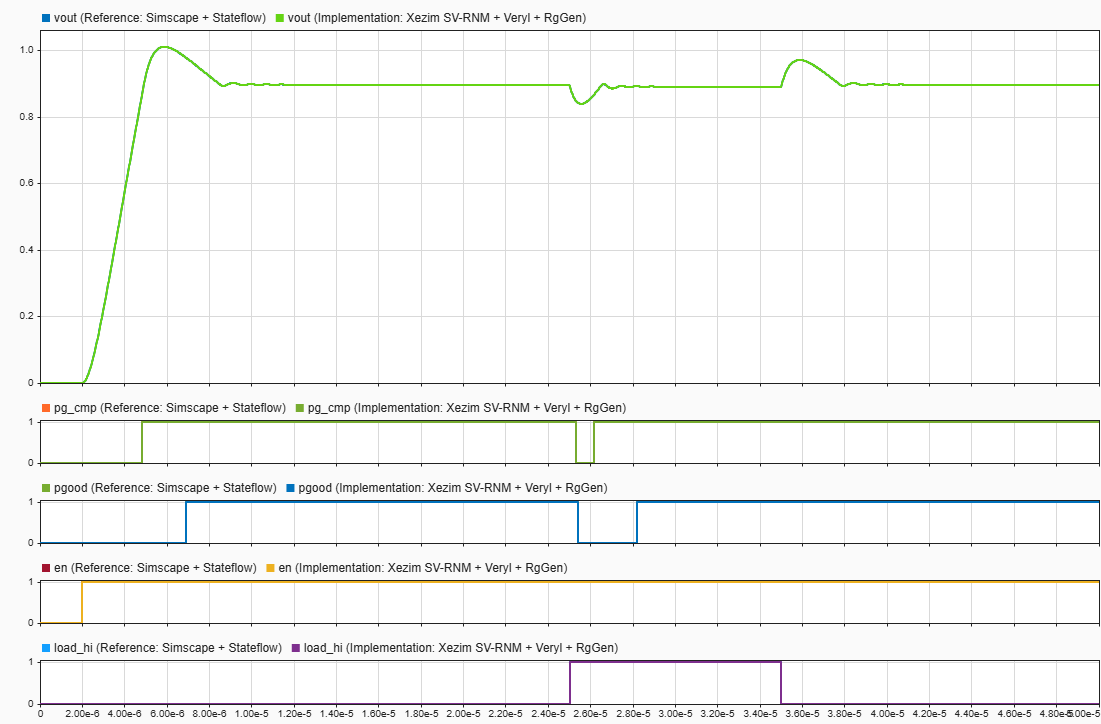
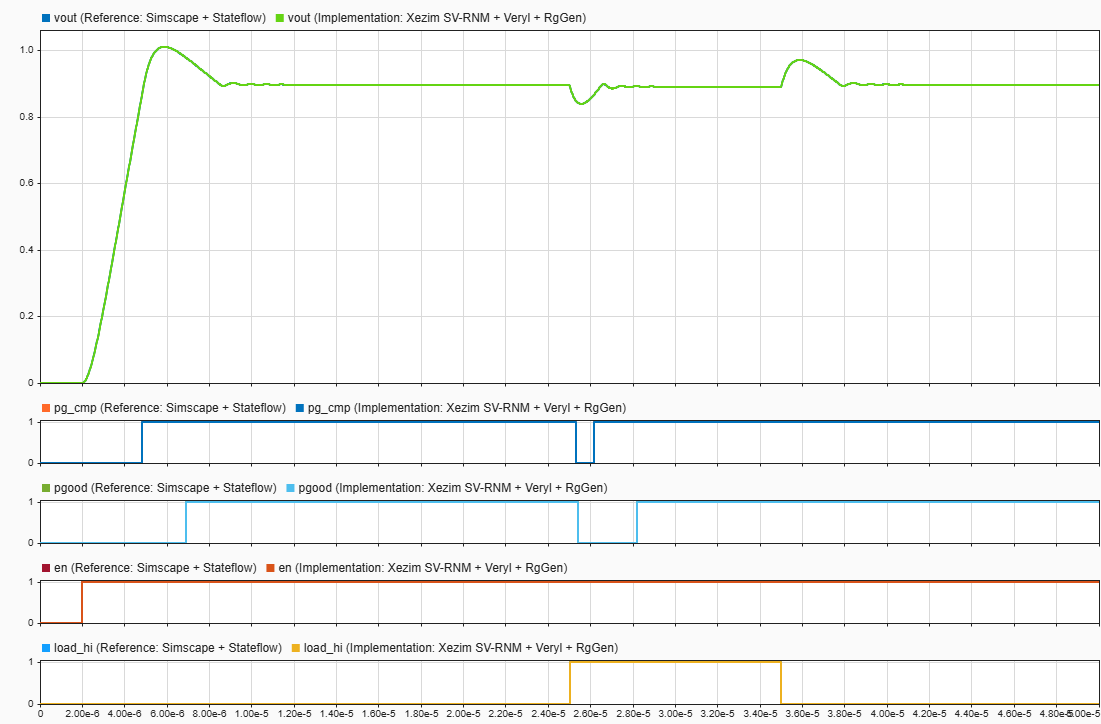
Put the whole MATLAB side in run_demo.m
The reference run, the Xezim run from signals.csv, the SDI comparison with
its limits and the overview figure are now local functions of one file
instead of six. The SDI window shows the same rows as the figure, plotted
in a separate pass before the snapshots (interleaving them left rows of
the figure empty).

diff --git a/matlab/run_demo.m b/matlab/run_demo.m
@@ -1,7 +1,111 @@
 function result = run_demo()
-reference_id = run_reference();
-result.sdi = comparison_sdi(reference_id);
-result.pass = strcmp(result.sdi.verdict, 'PASS');
-fprintf('run_demo: %s\n', result.sdi.verdict);
+% MATLAB side of the demo: simulate the reference model, compare it with the
+% Xezim run in Simulation Data Inspector, and write the overview figure.
+root = fileparts(fileparts(mfilename('fullpath')));
+out = fullfile(root, 'results', 'generated');
+
+ref = run_reference(fullfile(root, 'model', 'ldo_demo.slx'));
+impl = load_xezim_run(fullfile(out, 'xezim', 'signals.csv'));
+verdict = compare_runs(ref, impl, fullfile(out, 'sdi', 'comparison.mldatx'));
+plot_rows(ref, impl, fullfile(out, 'comparison', 'overview.png'));
+
+result = struct('pass', strcmp(verdict, 'PASS'), 'verdict', verdict);
 assert(result.pass, 'talkrtl:DemoFailed', 'SDI comparison failed.');
+end
+
+function run = run_reference(model_file)
+% Simscape LDO + Stateflow supervisor. Root inputs are en, load_hi and rst;
+% SimulationInput leaves the saved model untouched.
+fprintf('=== reference: Simscape LDO + Stateflow supervisor ===\n');
+Simulink.sdi.clear();
+load_system(model_file);
+t = (0:10e-9:50e-6)';
+en = double(t >= 2e-6);
+load_hi = double(t >= 25e-6 & t < 35e-6);
+input = Simulink.SimulationInput('ldo_demo');
+input = input.setExternalInput([t, en, load_hi, zeros(size(t))]);
+sim(input);
+ids = Simulink.sdi.getAllRunIDs();
+run = Simulink.sdi.getRun(ids(end));
+run.Name = 'Reference: Simscape + Stateflow';
+end
+
+function run = load_xezim_run(csv)
+% Every column after time_ns becomes one signal.
+x = readtable(csv);
+names = x.Properties.VariableNames(2:end);
+vals = cellfun(@(n) timeseries(double(x.(n)), x.time_ns * 1e-9, 'Name', n), ...
+    names, 'UniformOutput', false);
+id = Simulink.sdi.createRun('Implementation: Xezim SV-RNM + Veryl + RgGen', ...
+    'namevalue', names, vals);
+run = Simulink.sdi.getRun(id);
+end
+
+function verdict = compare_runs(ref, impl, session)
+% Analog signals within absolute limits, digital signals exact.
+LIMITS = struct('vout', 1e-3, 'vfb', 0.5e-3, 'vctrl', 5e-3, 'ipass', 20e-6);
+for run = [ref impl]
+    for id = run.getAllSignalIDs()'
+        sig = Simulink.sdi.getSignal(id);
+        sig.OverrideGlobalTol = true;
+        sig.RelTol = 0;
+        sig.TimeTol = 0;
+        if isfield(LIMITS, sig.Name)
+            sig.AbsTol = LIMITS.(sig.Name);
+            sig.InterpMethod = 'linear';
+        else
+            sig.AbsTol = 0;
+            sig.InterpMethod = 'zoh';
+        end
+    end
+end
+diff = Simulink.sdi.compareRuns(ref.ID, impl.ID, 'AbsTol', 0, 'RelTol', 0, 'TimeTol', 0);
+ok = 0;
+for k = 1:diff.Count
+    ok = ok + strcmp(char(diff.getResultByIndex(k).Status), 'WithinTolerance');
+end
+verdict = 'FAIL';
+if diff.Count == 10 && ok == diff.Count, verdict = 'PASS'; end
+fprintf('SDI Compare: %d/%d signals within tolerance (digital exact) : %s\n', ok, diff.Count, verdict);
+
+% Keep the computed comparison and both runs for later viewing.
+if ~isfolder(fileparts(session)), mkdir(fileparts(session)); end
+if isfile(session), delete(session); end
+saveResult(diff, session);
+end
+
+function plot_rows(ref, impl, figure_file)
+% The same rows in the SDI window and in the README figure. The figure is one
+% SDI snapshot per row, stacked, so the digital rows can stay thin; only the
+% bottom row gets time labels and the user's SDI setting is restored.
+ROWS = {'vout', 420; 'pg_cmp', 110; 'pgood', 110; 'en', 110; 'load_hi', 124};
+n = size(ROWS, 1);
+Simulink.sdi.clearAllSubPlots();
+Simulink.sdi.setSubPlotLayout(n, 1);
+for k = 1:n
+    for sig = [ref.getSignalsByName(ROWS{k, 1}), impl.getSignalsByName(ROWS{k, 1})]
+        sig.plotOnSubPlot(k, 1, true);
+    end
+end
+% Snapshots in a separate pass: interleaving them with the window plots above
+% left some figure rows empty.
+labels = Simulink.sdi.getTickLabelsDisplay();
+restore = onCleanup(@() Simulink.sdi.setTickLabelsDisplay(labels));
+Simulink.sdi.setTickLabelsDisplay('y-axis');
+img = [];
+for k = 1:n
+    snap = Simulink.sdi.CustomSnapshot;
+    snap.Width = 1100;
+    snap.Height = ROWS{k, 2};
+    for sig = [ref.getSignalsByName(ROWS{k, 1}), impl.getSignalsByName(ROWS{k, 1})]
+        snap.plotOnSubPlot(1, 1, sig, true);
+    end
+    if k == n, Simulink.sdi.setTickLabelsDisplay(labels); end
+    f = [tempname '.png'];
+    Simulink.sdi.snapshot('from', 'custom', 'to', 'file', 'filename', f, 'settings', snap);
+    img = [img; imread(f)]; %#ok<AGROW>
+    delete(f);
+end
+if ~isfolder(fileparts(figure_file)), mkdir(fileparts(figure_file)); end
+imwrite(img, figure_file);
 end

diff --git a/CONTRACT.md b/CONTRACT.md
@@ -113,4 +113,4 @@ PGOOD監視ロジックは100 ns周期で動作し、状態は `OFF`, `WAIT`, `O
 
 ## 比較
 
-MATLAB側（Simscape + Stateflow）とXezim側（SV-RNM + Veryl + RgGen）の波形をSimulation Data Inspectorで比較する。アナログ信号（`vout`, `vfb`, `vctrl`, `ipass`）は絶対誤差の上限以内（上限値は `matlab/comparison_policy.m`）、デジタル信号（`en`, `load_hi`, `rst`, `pg_cmp`, `state`, `pgood`）は完全一致とする。
+MATLAB側（Simscape + Stateflow）とXezim側（SV-RNM + Veryl + RgGen）の波形をSimulation Data Inspectorで比較する。アナログ信号（`vout`, `vfb`, `vctrl`, `ipass`）は絶対誤差の上限以内（上限値は `matlab/run_demo.m`）、デジタル信号（`en`, `load_hi`, `rst`, `pg_cmp`, `state`, `pgood`）は完全一致とする。
